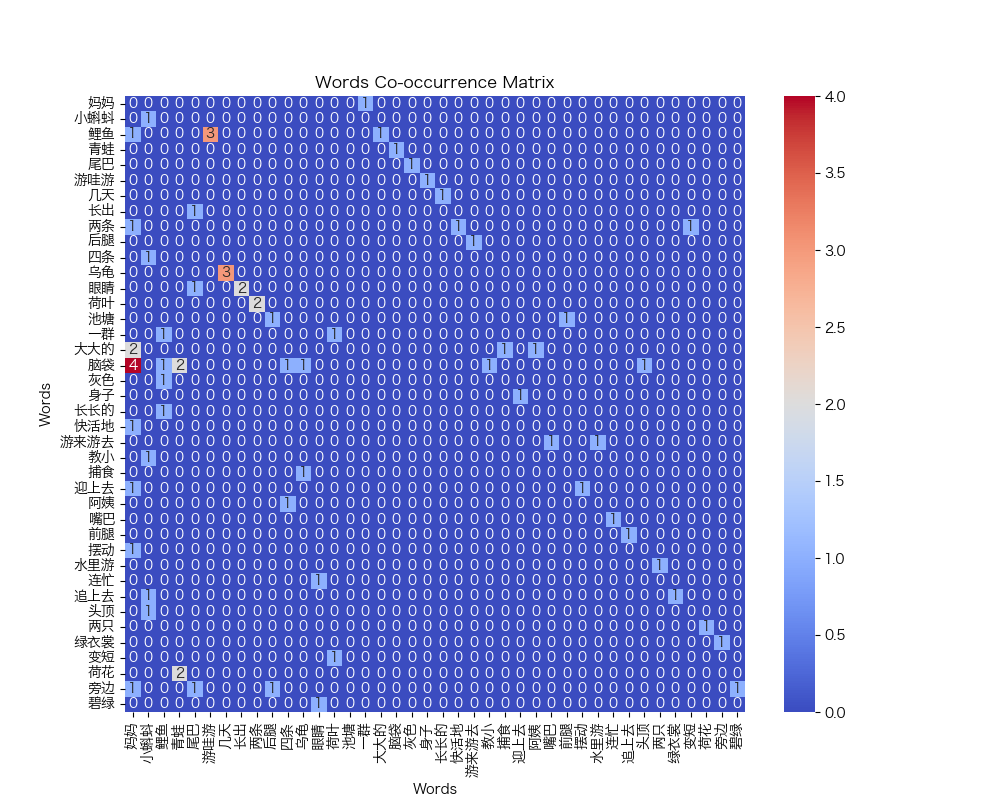
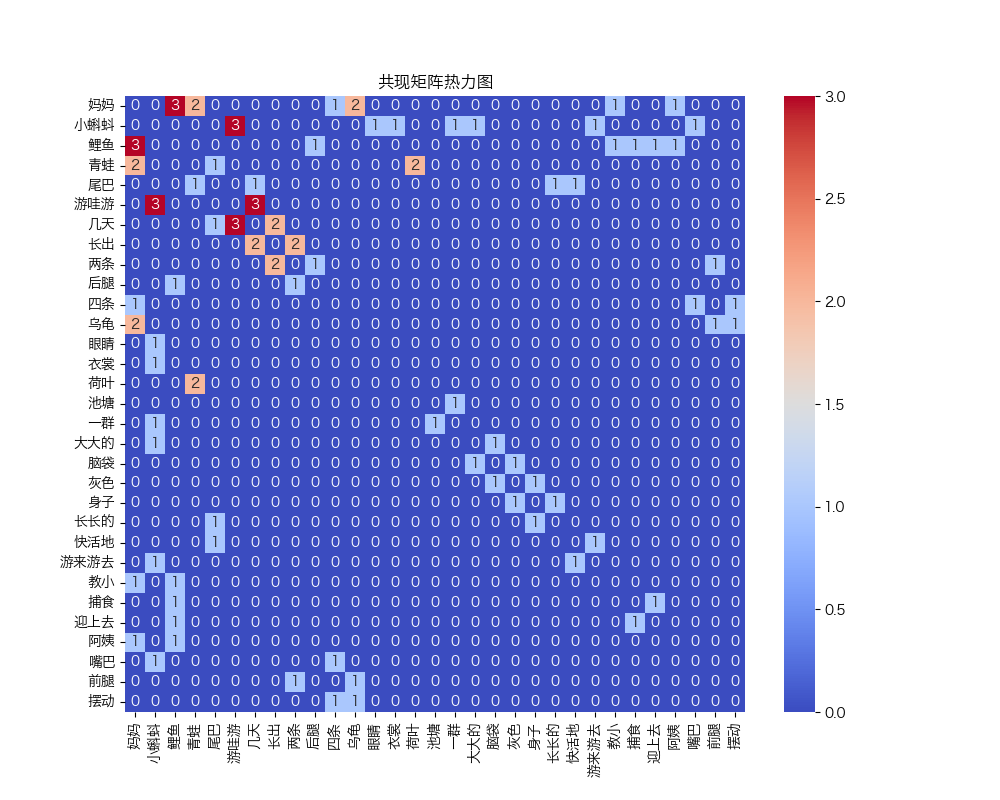
共现矩阵关系图 共现矩阵热力图

Changed region(s): [[0.031, 0.0938, 0.744, 1.0]]

diff --git a/coOccurrence.py b/coOccurrence.py
@@ -5,10 +5,10 @@ from collections import defaultdict, Counter
 import numpy as np
 import seaborn as sns
 import matplotlib.pyplot as plt
-
+import networkx as nx
 
 stopwords_path = 'userdict/stopword.txt'
-def generate_wordcloud(text):
+def generate_pic(text):
 
        
     # 初始化矩阵
@@ -19,24 +19,17 @@ def generate_wordcloud(text):
 
     # 创建单词到索引的映射，仅包含高频词汇，
     word_to_index = {word: idx for idx, (word, _) in enumerate(top_words)} # word_to_index用于矩阵坐标轴 
+    word_to_index_new =  {value: key for key, value in word_to_index.items()}
     # print((word_to_index))
-
-    # print(("------------"))
-    # print((words))
-
     # 构建并显示共现矩阵
     cooccurrence_matrix = build_cooccurrence_matrix(words, word_to_index)
+  
+    #生成共现矩阵热力图
+    generate_cooccurrence_matrix(cooccurrence_matrix,top_words);
 
-    plt.figure(figsize=(10, 8))
-    plt.rcParams['font.sans-serif']=['Hiragino Sans GB'] # 修改字体
-    plt.rcParams['axes.unicode_minus'] = False # 正常显示负号 
-    sns.heatmap(cooccurrence_matrix, annot=True, fmt='g', cmap='coolwarm', xticklabels=[word for word, _ in top_words], yticklabels=[word for word, _ in top_words])
-    plt.title('Words Co-occurrence Matrix')
-    plt.xlabel('Words')
-    plt.ylabel('Words')
-    # 使用savefig方法保存图片
-    plt.savefig('images/my_figure.png')
-    #plt.show()
+    #生成共现矩阵关系图
+    generate_cooccurrence_network(cooccurrence_matrix,1,word_to_index_new);
+    
 
 # 构建共现矩阵
 def build_cooccurrence_matrix(filtered_words, word_to_index):
@@ -50,11 +43,55 @@ def build_cooccurrence_matrix(filtered_words, word_to_index):
             index1, index2 = word_to_index[word1], word_to_index[word2]
             cooccur_matrix[index1][index2] += 1
             cooccur_matrix[index2][index1] += 1  # 确保矩阵对称性
-            
+
+    # 将对角线元素设为0
+    np.fill_diagonal(cooccur_matrix, 0)
+
     return cooccur_matrix
 
 
+# 生成共现矩阵热力图
+def generate_cooccurrence_matrix(cooccurrence_matrix, top_words):
+    plt.figure(figsize=(10, 8))
+    plt.rcParams['font.sans-serif']=['Hiragino Sans GB'] # 修改字体
+    plt.rcParams['axes.unicode_minus'] = False # 正常显示负号 
+    sns.heatmap(cooccurrence_matrix, annot=True, fmt='g', cmap='coolwarm', xticklabels=[word for word, _ in top_words], yticklabels=[word for word, _ in top_words])
+    plt.title('共现矩阵热力图')
+    plt.xlabel(' ')
+    plt.ylabel(' ')
+    # 使用savefig方法保存图片
+    print("共现矩阵热力图:images/my_figure.png")
+    plt.savefig('images/my_figure.png')
+    #plt.show()
 
+# 生成共现矩阵关系图
+def generate_cooccurrence_network(cooccurrence_matrix, min_threshold,word_to_index):
+    # 过滤掉共现次数低于阈值的边
+    G = nx.from_numpy_array(cooccurrence_matrix)
+    G.remove_edges_from([(u, v) for u, v, d in G.edges(data=True) if d['weight'] < min_threshold])
+    # 定义函数来获取节点的标签（词汇）
+    def get_node_label(node_id):
+        return word_to_index.get(node_id, str(node_id))  # 如果找不到对应的词汇，返回节点ID作为备选
 
+    # 为每个节点生成标签
+    labels = {node: get_node_label(node) for node in G.nodes()}
+    # 生成网络图布局
+    pos = nx.spring_layout(G, seed=42)
 
-# 
+    # 绘制共现矩阵关系图
+    plt.figure(figsize=(12, 8))
+    plt.title('共现矩阵关系图')
+    plt.rcParams['font.sans-serif']=['Hiragino Sans GB'] # 修改字体
+    plt.rcParams['axes.unicode_minus'] = False # 正常显示负号 
+    nx.draw_networkx_nodes(G, pos, node_size=500, alpha=0.8)
+    nx.draw_networkx_edges(G, pos, alpha=0.5)
+    nx.draw_networkx_labels(G, pos,labels=labels, font_size=10, font_family='Hiragino Sans GB')
+    
+    # 显示图中的权重（可选）
+    # = nx.get_edge_attributes(G, 'weight')
+    # nx.draw_networkx_edge_labels(G, pos, edge_labels=edge_weight_labels)
+    
+    print("共现矩阵关系图:images/diagram.png")
+    plt.savefig('images/diagram.png')
+    plt.axis('off')  # 关闭坐标轴
+    #plt.show()

diff --git a/plotWordcloud.py b/plotWordcloud.py
@@ -17,7 +17,7 @@ def generate_wordcloud(text):
     font_path=path.join(d,"font//msyh.ttf")
     wc = WordCloud(
         background_color="white",# 设置背景颜色  "silver"
-        color_func=lambda *args, **kwargs: "black" , # 设置字体颜色 
+        #color_func=lambda *args, **kwargs: "black" , # 设置字体颜色 
         stopwords=stopwords_path, # 设置停用词 无法为空，因此再设置一次停用词
             max_words=100, # 词云显示的最大词数  
             collocations=False, #可防止出现重复
@@ -33,7 +33,8 @@ def generate_wordcloud(text):
     wc.generate(text)
 
     # 生成的词云图像保存到本地
-    wc.to_file(path.join(d, "Images//alice.png"))
+    print("词云图:images/wordCloud.png")
+    wc.to_file(path.join(d, "Images//wordCloud.png"))
 
 
 

diff --git a/chnSegment.py b/chnSegment.py
@@ -13,7 +13,7 @@ def word_segment(text):
 
     # 移除一些无意义词语 'stopword.txt'
     mywordlist = []
-    #jieba.suggest_freq(('绿', '衣服'), True) # 人为设定需要拆分的词语
+    jieba.suggest_freq(('绿', '衣裳'), True) # 人为设定需要拆分的词语
     seg_list = jieba.cut(text, cut_all=False)
     liststr = "/".join(seg_list)
     with open(stopwords_path) as f_stop:

diff --git a/demo.py b/demo.py
@@ -37,5 +37,5 @@ if __name__=='__main__':
     # 生成词云
     plotWordcloud.generate_wordcloud(text)
 
-    # 共存矩阵
-    coOccurrence.generate_wordcloud(text)
+    # 共现矩阵
+    coOccurrence.generate_pic(text)

diff --git a/README.md b/README.md
@@ -2,9 +2,10 @@
 
 1，用python进行文本分词，支持txt和docx格式文件。
 2，生成词云
-3，生成共存矩阵
+3，生成共现矩阵热力图
+4，生成共现矩阵关系图
 
-词云功能和共存矩阵功能可以单独使用，互不影响
+词云功能和共现矩阵功能可以单独使用，互不影响
 
 ## 安装
 * `pip3 install jieba`
@@ -13,8 +14,10 @@
 * `pip3 install matplotlib`
 * `pip3 install seaborn`
 * `pip3 install numpy`
+* `pip3 install networkx`
+
 # 运行
-* 请将文本放入doc文件夹。运行demo.py,会生成相应的的词云图，和“doc/词频统计.txt”。默认读取demo.txt， 如运行命令有附加参数d，则读取demo.docx。  
+* 请将文本放入doc文件夹。运行demo.py,会生成相应的的图，词频统计。默认读取demo.txt， 如运行命令有附加参数d，则读取demo.docx。  
 
 * txt文件命令： `python3 demo.py` 
 * docx文件命令： `python3 demo.py d`
@@ -26,5 +29,9 @@
 
 * 部分字词属于统计上意义较小的词库，如'着'、'的' 等。本仓库已内置了一些字词。如仍有不想纳入统计的词语，可自行添加。路径：userdict/stopword.txt
 
-
-![image](https://raw.githubusercontent.com/suweiteng/wordCloud/master/Images/alice.png)  
+### 词云图
+![image](https://raw.githubusercontent.com/suweiteng/wordCloud/master/Images/wordCloud.png)  
+### 共现矩阵热力图
+![image](https://raw.githubusercontent.com/suweiteng/wordCloud/master/Images/my_figure.png)  
+### 共现矩阵关系图
+![image](https://raw.githubusercontent.com/suweiteng/wordCloud/master/Images/diagram.png)
